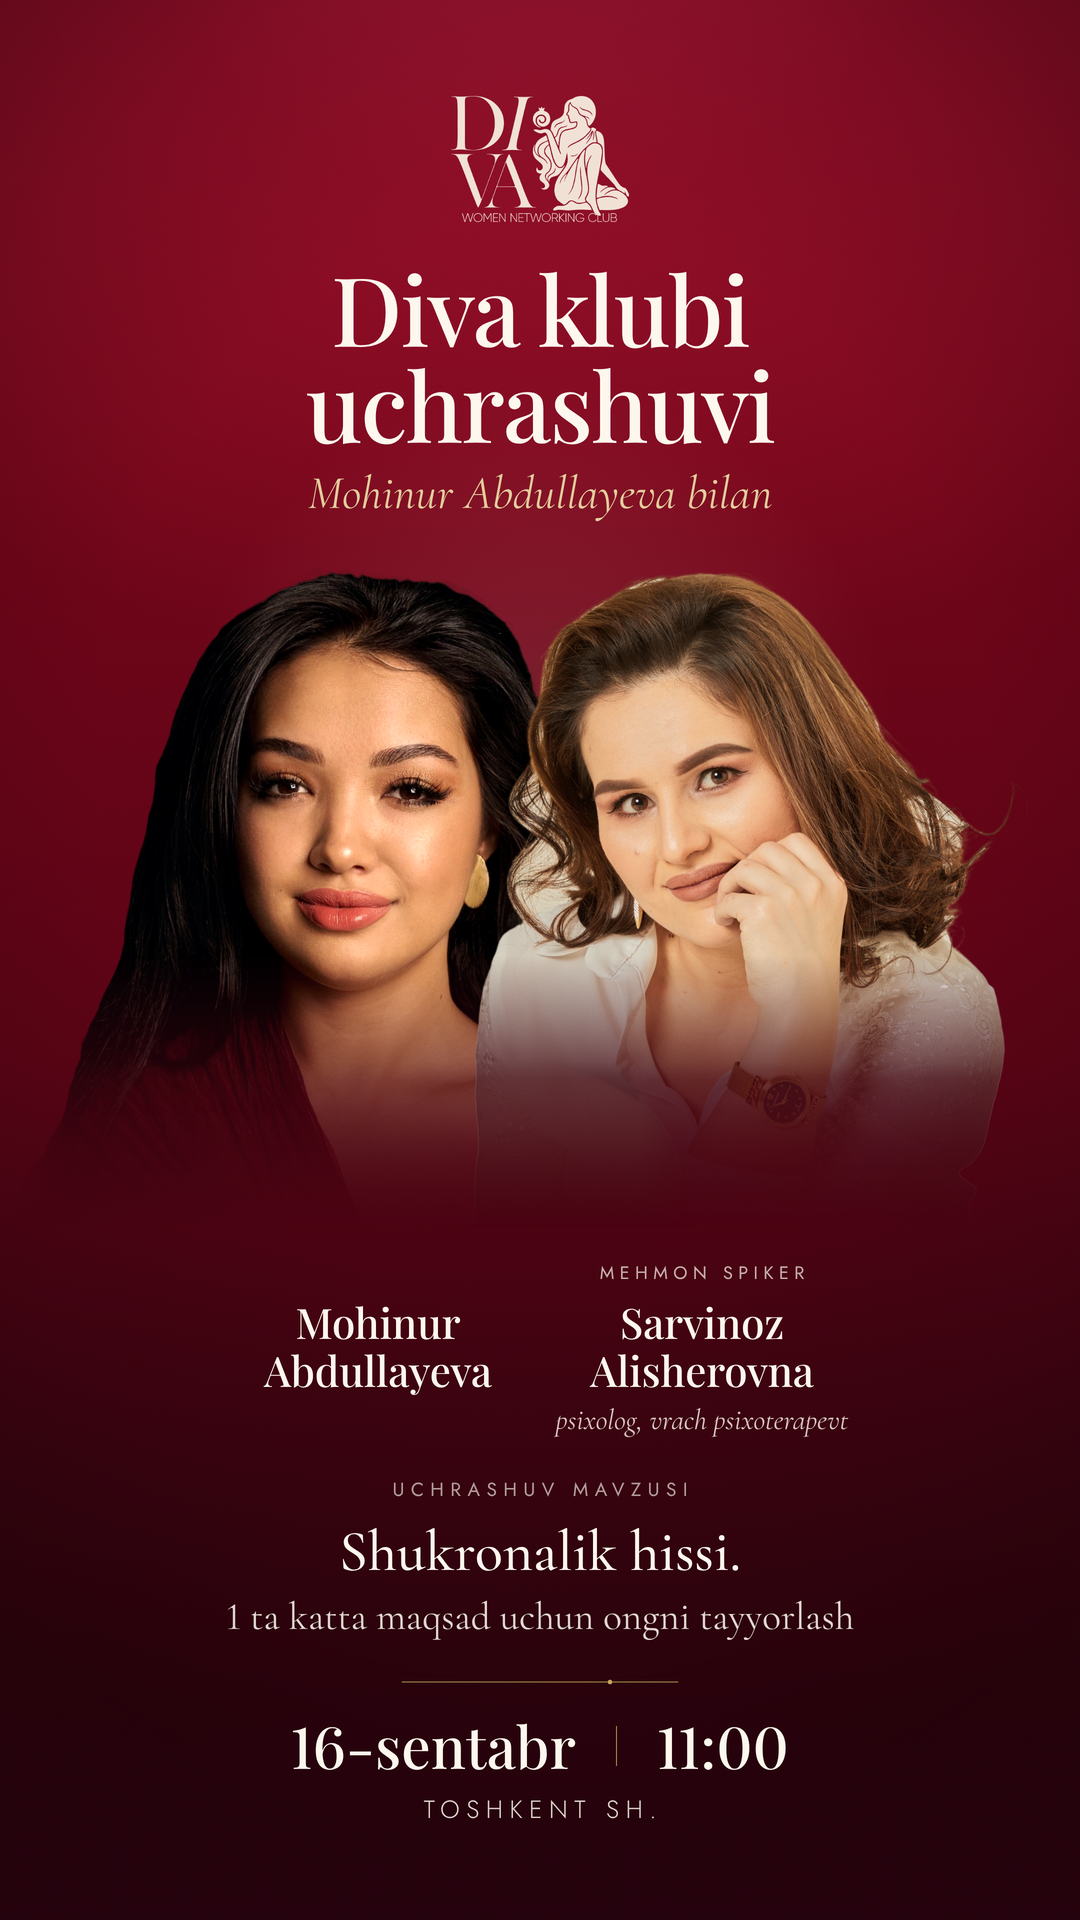
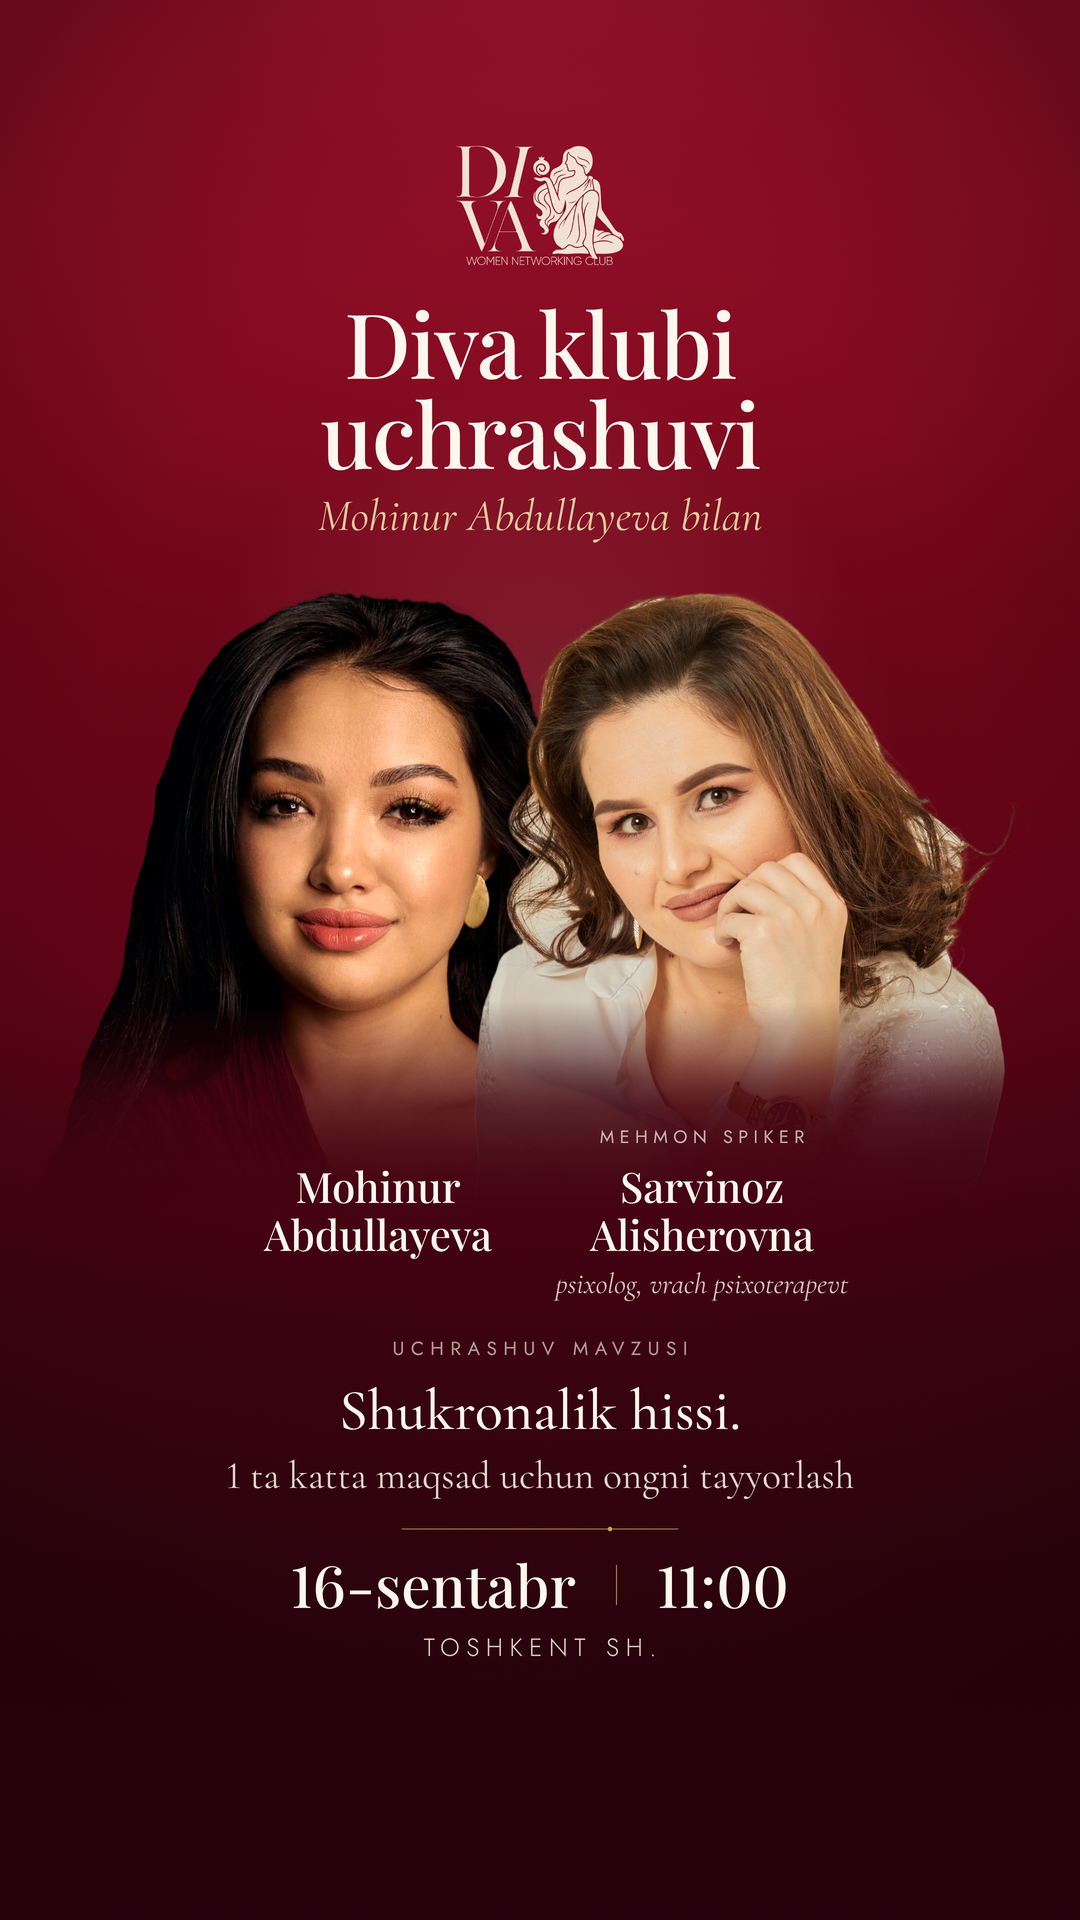
Polish direction A: keep the dissolve off both faces
The gradient that sinks each figure into the ground was starting above
the chin line in 4:5 and 1:1 — Mohinur kept only 0.63 of her light at
the chin, Sarvinoz 0.61 — while 9:16 was clean, so the three ratios
were not one system. The sink now always starts below the measured
chin, the scrim that beds the captions starts below it too, and every
face keeps its full light in every ratio.

Also rebuilds the 9:16 vertical rhythm so the date and venue sit clear
of the band a Story's UI covers.

Claude-Session: https://claude.ai/code/session_01CJcxAKvhDYH9Z96uyo456t

diff --git a/diva-club-posts/variant-a.html b/diva-club-posts/variant-a.html
@@ -36,13 +36,19 @@
   --maskX: 6%;              /* softener where a silhouette runs out of frame */
   --fadeA: 48%;             /* body fully opaque until here                */
   --fadeB: 82%;             /* body fully dissolved from here              */
-  --sinkA: 26%;             /* maroon starts drinking the body here        */
-  --sinkM: 58%;
+  /* The dissolve must never reach a face. Measured against the cutouts:
+     Mohinur's chin sits at 48.2% of the figure box, Sarvinoz's at 40.0%
+     (they are cropped to the same eye-line, so this holds in every ratio).
+     --sinkA is therefore always set BELOW 48.2%, and --scrimTop below the
+     absolute y of that same chin. */
+  --sinkA: 52%;             /* maroon starts drinking the body here        */
+  --sinkM: 66%;
 
   --namesTop: 866px;
   --capW: 420px;
   --capOff: 154px;
-  --scrimTop: 690px;
+  --scrimTop: 800px;
+  --gapCity: 12px;
 
   /* ---------------- type ---------------- */
   --fsTitle: 78px;  --lhTitle: 1.0;
@@ -63,16 +69,18 @@ figure { margin: 0; }
     linear-gradient(180deg, #7f0d20 0%, #6d0518 26%, #560314 56%, #3c0210 82%, #2c0210 100%);
 }
 
-/* the maroon the lower bodies sink into */
+/* The maroon the lower bodies sink into. It starts below the lower of the two
+   chins (see --scrimTop) and then rises quickly, so the caption band always
+   has a dark bed without any shadow ever reaching a face. */
 .scrim {
   position: absolute;
   left: 0; right: 0; bottom: 0;
   top: var(--scrimTop);
   background: linear-gradient(180deg,
     rgba(58, 3, 15, 0) 0%,
-    rgba(55, 3, 14, .34) 28%,
-    rgba(50, 2, 13, .78) 54%,
-    rgba(44, 2, 12, .95) 74%,
+    rgba(56, 3, 14, .38) 15%,
+    rgba(50, 2, 13, .80) 45%,
+    rgba(44, 2, 12, .95) 70%,
     #2c0210 100%);
   pointer-events: none;
 }
@@ -294,19 +302,25 @@ figure { margin: 0; }
   color: rgba(251, 244, 234, .86);
 }
 
-/* ===================================================================== 9:16 */
+/* ===================================================================== 9:16
+   A 9:16 post is read as a Story, where the platform paints its own UI over
+   roughly the top 140px and the bottom 250px of the 1080x1920 frame. So the
+   whole composition is built inside y 140..1670: the logo starts at 146, the
+   venue line ends at 1666, and the dark foot of the ground below it is left
+   deliberately empty. Standalone it reads as a poster with a deep bottom
+   margin; in a Story nothing that matters is ever covered.                */
 html[data-r="9x16"] .canvas {
-  --padX: 88px; --gTop: 96px; --gBot: 92px;
-  --logoW: 178px; --gapLogo: 38px; --gapHost: 14px;
+  --padX: 88px; --gTop: 146px; --gBot: 254px;
+  --logoW: 168px; --gapLogo: 32px; --gapHost: 12px;
   --figW: 690px; --figH: 885px; --figOv: 296px;
-  --stageTop: 548px; --stageShift: 12px; --maskX: 9%;
-  --fadeA: 58%; --fadeB: 77%; --sinkA: 46%; --sinkM: 60%;
-  --namesTop: 1262px; --capW: 420px; --capOff: 162px; --scrimTop: 1060px;
-  --fsTitle: 96px; --fsHost: 47px;
+  --stageTop: 568px; --stageShift: 12px; --maskX: 9%;
+  --fadeA: 55%; --fadeB: 73%; --sinkA: 49%; --sinkM: 61%;
+  --namesTop: 1126px; --capW: 420px; --capOff: 162px; --scrimTop: 1000px;
+  --fsTitle: 90px; --fsHost: 45px;
   --fsTag: 18px; --fsName: 42px; --fsRole: 29px;
   --fsLbl: 19px; --fsTopic: 58px; --fsTopic2: 39px;
   --fsDate: 58px; --fsCity: 25px;
-  --markW: 300px; --gapMark: 36px; --gapWhen: 28px; --whenGap: 40px; --gapCity: 14px;
+  --markW: 300px; --gapMark: 24px; --gapWhen: 20px; --whenGap: 40px; --gapCity: 13px;
 }
 
 /* ====================================================================== 4:5 */
@@ -315,8 +329,8 @@ html[data-r="4x5"] .canvas {
   --logoW: 152px; --gapLogo: 30px; --gapHost: 12px;
   --figW: 560px; --figH: 656px; --figOv: 196px;
   --stageTop: 452px; --stageShift: 17px; --maskX: 6%;
-  --fadeA: 52%; --fadeB: 84%; --sinkA: 26%; --sinkM: 56%;
-  --namesTop: 858px; --capW: 420px; --capOff: 154px; --scrimTop: 690px;
+  --fadeA: 52%; --fadeB: 84%; --sinkA: 52%; --sinkM: 64%;
+  --namesTop: 858px; --capW: 420px; --capOff: 154px; --scrimTop: 800px;
   --fsTitle: 78px; --fsHost: 40px;
   --fsTag: 15px; --fsName: 32px; --fsRole: 24px;
   --fsLbl: 16px; --fsTopic: 45px; --fsTopic2: 32px;
@@ -330,8 +344,8 @@ html[data-r="1x1"] .canvas {
   --logoW: 108px; --gapLogo: 12px; --gapHost: 4px;
   --figW: 537px; --figH: 690px; --figOv: 138px;
   --stageTop: 308px; --stageShift: 16px; --maskX: 6%;
-  --fadeA: 48%; --fadeB: 66%; --sinkA: 30%; --sinkM: 52%;
-  --namesTop: 698px; --capW: 400px; --capOff: 173px; --scrimTop: 560px;
+  --fadeA: 48%; --fadeB: 66%; --sinkA: 47%; --sinkM: 58%;
+  --namesTop: 698px; --capW: 400px; --capOff: 173px; --scrimTop: 652px;
   --fsTitle: 54px; --fsHost: 30px;
   --fsTag: 13px; --fsName: 27px; --fsRole: 21px;
   --fsLbl: 14px; --fsTopic: 34px; --fsTopic2: 24px;
